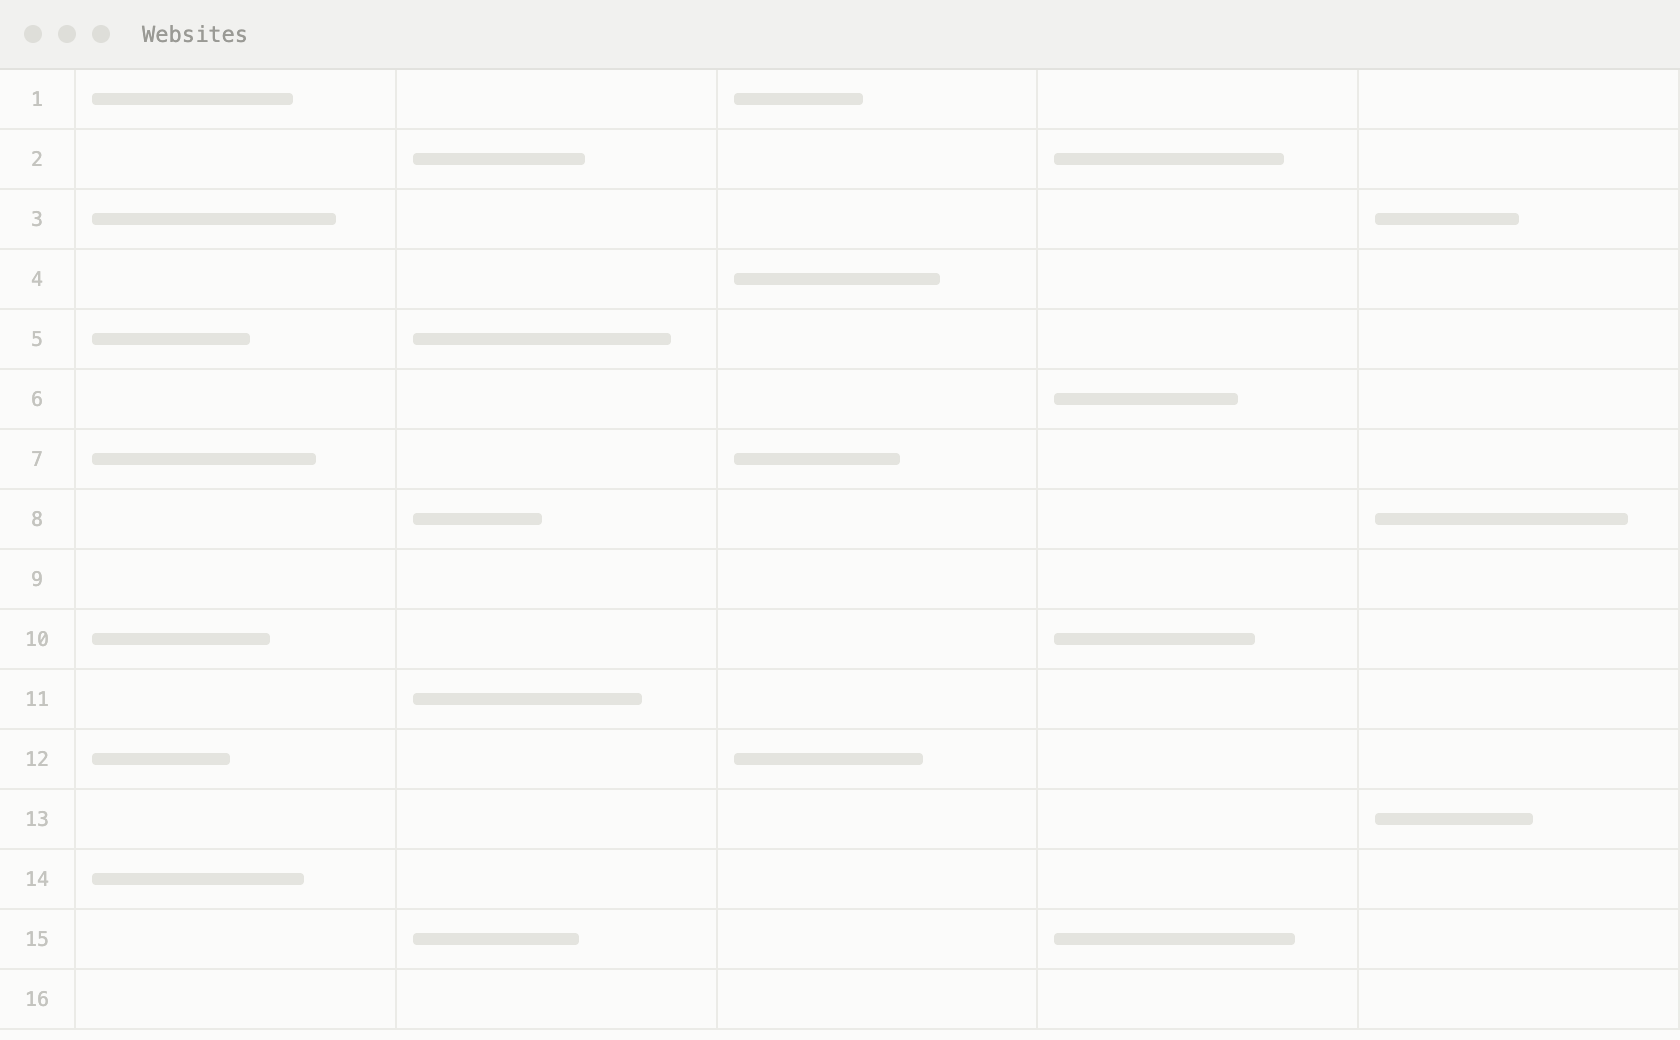
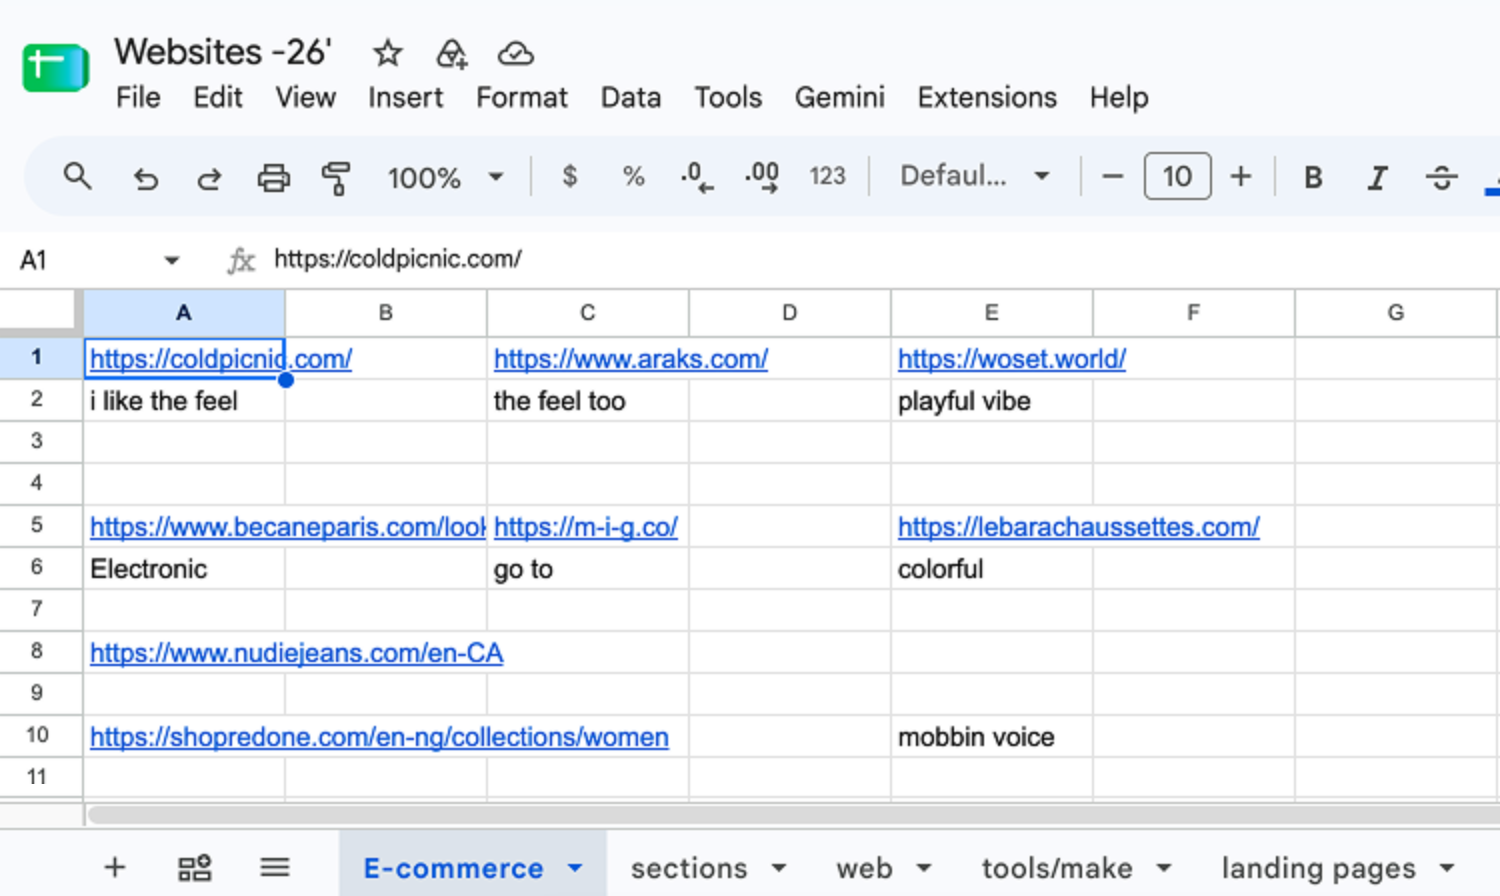
Make every destination reachable on a phone
Request a site, About and Changelog were all hidden below sm, so a
phone header held a logo and two toggles and reached nothing else.

The header keeps the one action; the two destinations move to the end
of the navigation — under the categories in the sidebar, and on the
filter bar below xl, where the category list lives at that size. The
foot of the grid was the obvious home and the wrong one: the grid
loads as you scroll, so it has no foot to arrive at.

The panel drops the Mobile tab below xl. Preview carries the mobile
rendering there instead, out of its drawn phone frame so it fills the
sheet — a phone drawn inside a phone is a picture of your own hand.

diff --git a/components/gallery.tsx b/components/gallery.tsx
@@ -88,6 +88,13 @@ const ICON_BUTTON =
   'text-ink-3 hover:text-ink hover:bg-muted active:scale-[0.98] transition-[background-color,border-color,color,transform] duration-[var(--dur-2)] ease-[var(--ease-sig)] ' +
   "after:absolute after:left-1/2 after:top-1/2 after:h-11 after:w-[42px] after:-translate-x-1/2 after:-translate-y-1/2 after:content-['']"
 
+// Where the navigation ends. About and Changelog are destinations rather than
+// filters, so they sit after the list on desktop and after the grid on a
+// phone — the same idea in the same relative place, at both sizes.
+const SECONDARY_LINK =
+  'relative flex items-center text-meta text-ink-3 hover:text-ink transition-colors ' +
+  "after:absolute after:inset-x-0 after:top-1/2 after:h-11 after:-translate-y-1/2 after:content-['']"
+
 // Counts share a fixed column and sit right-aligned, so the digits line up down
 // the list instead of ending wherever each label happens to leave them.
 function sidebarCount(isActive: boolean): string {
@@ -405,8 +412,9 @@ export function Gallery({ initialDesigns, initialPagination, initialCategories }
   // has the same room either way and the count does not shift under you.
   const cardColumns = 'grid-cols-1 sm:grid-cols-2 2xl:grid-cols-3'
 
-  const detailPanel = isPanelOpen && (
+  const renderDetailPanel = (variant: 'desktop' | 'mobile') => isPanelOpen && (
     <SiteDetailPanel
+      variant={variant}
       sourceId={Number(selectedId)}
       metadata={selectedDesign ? {
         tags: selectedDesign.tags,
@@ -476,27 +484,12 @@ export function Gallery({ initialDesigns, initialPagination, initialCategories }
                 something the person just asked for. */}
             <button
               onClick={() => setRequestOpen(true)}
-              className="relative hidden sm:flex items-center gap-1 text-meta text-ink-3 hover:text-ink transition-colors mr-1 after:absolute after:inset-x-0 after:top-1/2 after:h-11 after:-translate-y-1/2 after:content-['']"
+              aria-label="Request a site"
+              className="relative flex items-center gap-1 text-meta text-ink-3 hover:text-ink transition-colors mr-1 sm:mr-1 max-sm:w-9 max-sm:h-9 max-sm:justify-center max-sm:rounded-[10px] max-sm:bg-muted/60 max-sm:hover:bg-muted max-sm:active:scale-[0.98] after:absolute after:inset-x-0 after:top-1/2 after:h-11 after:-translate-y-1/2 after:content-['']"
             >
-              <Plus className="w-3 h-3" weight="bold" />
-              Request a site
+              <Plus className="w-3 h-3 max-sm:w-4 max-sm:h-4" weight="bold" />
+              <span className="max-sm:sr-only">Request a site</span>
             </button>
-
-            <Link
-              href="/about"
-              className="relative hidden sm:flex items-center text-meta text-ink-3 hover:text-ink transition-colors mr-1 after:absolute after:inset-x-0 after:top-1/2 after:h-11 after:-translate-y-1/2 after:content-['']"
-            >
-              About
-            </Link>
-
-            <Link
-              href="/changelog"
-              // 17px tall as drawn. The overlay carries the touch target so the
-              // link keeps its weight in the header.
-              className="relative hidden sm:flex items-center text-meta text-ink-3 hover:text-ink transition-colors mr-1 after:absolute after:inset-x-0 after:top-1/2 after:h-11 after:-translate-y-1/2 after:content-['']"
-            >
-              Changelog
-            </Link>
 
             <button
               onClick={() => {
@@ -590,6 +583,13 @@ export function Gallery({ initialDesigns, initialPagination, initialCategories }
             {/* Active tags live in the filter bar above the grid, alongside
                 categories and search, rather than in a second list here. */}
           </nav>
+
+          {/* mt-auto so this sits at the foot of the column on a short list
+              and is scrolled to on a long one, rather than floating mid-way. */}
+          <div className="mt-auto px-4 py-4 border-t border-edge flex flex-col gap-2.5">
+            <Link href="/about" className={SECONDARY_LINK}>About</Link>
+            <Link href="/changelog" className={SECONDARY_LINK}>Changelog</Link>
+          </div>
         </aside>
 
         {/* Gallery */}
@@ -653,6 +653,16 @@ export function Gallery({ initialDesigns, initialPagination, initialCategories }
                     {label}
                   </button>
                 ))}
+              </div>
+
+              {/* Below xl this bar *is* the category list, so "after the
+                  navigation" lands here. It shares the sort row rather than
+                  taking one of its own — a fourth row of sticky chrome on a
+                  phone is a lot to spend on two links. */}
+              <div className="ml-auto flex items-center gap-2 shrink-0 pl-2">
+                <Link href="/about" className={SECONDARY_LINK}>About</Link>
+                <span aria-hidden="true" className="text-meta text-ink-4">·</span>
+                <Link href="/changelog" className={SECONDARY_LINK}>Changelog</Link>
               </div>
             </div>
           </div>
@@ -772,6 +782,7 @@ export function Gallery({ initialDesigns, initialPagination, initialCategories }
               {isRefetching ? 'Loading sites' : `${pagination.total} sites`}
             </p>
           </div>
+
         </main>
 
         <RequestSiteDialog
@@ -794,7 +805,7 @@ export function Gallery({ initialDesigns, initialPagination, initialCategories }
                 transition={{ duration: 0.15 }}
                 className="flex flex-col h-full"
               >
-                {detailPanel}
+                {renderDetailPanel('desktop')}
               </motion.div>
             ) : (
               <motion.div
@@ -863,7 +874,7 @@ export function Gallery({ initialDesigns, initialPagination, initialCategories }
               </div>
 
               <div className="flex flex-col flex-1 min-h-0" style={{ touchAction: 'pan-y', paddingBottom: 'var(--safe-bottom)' }}>
-                {detailPanel}
+                {renderDetailPanel('mobile')}
               </div>
             </motion.div>
           </>

diff --git a/components/origin-peek.tsx b/components/origin-peek.tsx
@@ -22,6 +22,7 @@ interface OriginPeekProps {
 export function OriginPeek({ children, src, alt, caption }: OriginPeekProps) {
   const [open, setOpen] = useState(false)
   const [below, setBelow] = useState(false)
+  const [shift, setShift] = useState(0)
   const wrapRef = useRef<HTMLSpanElement>(null)
 
   // Opening upward is the better read — the picture sits above the sentence
@@ -30,7 +31,20 @@ export function OriginPeek({ children, src, alt, caption }: OriginPeekProps) {
   // way. Measured at open, because the answer changes with the scroll.
   function place() {
     const rect = wrapRef.current?.getBoundingClientRect()
-    if (rect) setBelow(rect.top < 320)
+    if (!rect) return
+    setBelow(rect.top < 320)
+
+    // Centred on the word is right until the word is near an edge, and on a
+    // phone it usually is — a 351px panel centred on a word 90px from the
+    // left runs off the screen. Nudge it back inside and let it sit
+    // off-centre, which nobody notices; a panel half out of the window is
+    // the thing people notice.
+    const width = Math.min(600, window.innerWidth * 0.9)
+    const margin = 12
+    const left = rect.left + rect.width / 2 - width / 2
+    const overLeft = margin - left
+    const overRight = left + width - (window.innerWidth - margin)
+    setShift(overLeft > 0 ? overLeft : overRight > 0 ? -overRight : 0)
   }
 
   // A tap opens it; the next tap anywhere else puts it away again.
@@ -73,20 +87,25 @@ export function OriginPeek({ children, src, alt, caption }: OriginPeekProps) {
       <span
         aria-hidden={!open}
         className={[
-          'pointer-events-none absolute z-50 left-1/2 -translate-x-1/2',
+          'pointer-events-none absolute z-50 left-1/2',
           below ? 'top-[calc(100%+10px)]' : 'bottom-[calc(100%+10px)]',
-          'w-[min(420px,78vw)] rounded-[6px] border border-edge-strong bg-card overflow-hidden',
+          'w-[min(600px,90vw)] rounded-[6px] border border-edge-strong bg-card overflow-hidden',
           'shadow-[0_12px_32px_-8px_rgba(0,0,0,0.28)]',
           'transition-[opacity,transform] duration-[var(--dur-2)] ease-[var(--ease-sig)]',
           'motion-reduce:transition-none',
-          open ? 'opacity-100 translate-y-0' : `opacity-0 ${below ? '-translate-y-1' : 'translate-y-1'}`,
+          open ? 'opacity-100' : 'opacity-0',
         ].join(' ')}
+        style={{
+          transform: `translateX(calc(-50% + ${shift}px)) translateY(${
+            open ? 0 : below ? -4 : 4
+          }px)`,
+        }}
       >
         <Image
           src={src}
           alt={alt}
-          width={840}
-          height={520}
+          width={1500}
+          height={896}
           className="w-full h-auto block"
         />
         {caption && (

diff --git a/data/changelog.ts b/data/changelog.ts
@@ -85,6 +85,17 @@ export function releaseAuthors(release: ChangelogRelease): Author[] {
 const changelog: ChangelogRelease[] = [
   {
     date: '2026-08-31',
+    title: 'Reachable From Anywhere',
+    description: 'Three of the four things in the header vanished below 640px, which meant a phone could reach the gallery and nothing else. Fixing that was mostly a question of deciding what the header is for.',
+    items: [
+      { type: 'fixed',    author: 'damilare', text: 'Request a site, About and Changelog were all hidden below the small breakpoint, so on a phone the header held a logo and two toggles and there was no way to reach anything else at all' },
+      { type: 'improved', author: 'damilare', text: 'The header keeps one thing now — Request a site, beside sound and theme, shedding its label on a phone the way those two already do. It is the only action of the three; the other two are destinations and were competing with it for the same corner' },
+      { type: 'improved', author: 'damilare', text: 'About and Changelog moved to the end of the navigation: under the categories in the sidebar on desktop, and on the filter bar below it, which is where the category list lives at that size. They share the sort row rather than taking one of their own — a fourth row of sticky chrome on a phone is a lot to spend on two links. The foot of the grid was the obvious place and the wrong one, because the grid loads as you scroll and therefore has no foot to arrive at' },
+      { type: 'improved', author: 'damilare', text: 'The detail panel drops the Mobile tab below xl. Offering a mobile view to someone already holding a phone is offering them the view they are in — Preview carries the mobile rendering there instead, out of its drawn phone frame so it fills the sheet. A phone drawn inside a phone is a picture of the thing in your hand' },
+    ],
+  },
+  {
+    date: '2026-08-31',
     title: 'The Page, Zoomed Out',
     description: 'Thirty releases is more than anyone will scroll through to reach February. The fix is not a menu of month names but a smaller copy of the page itself, kept in the margin.',
     items: [

diff --git a/components/preview-tab.tsx b/components/preview-tab.tsx
@@ -16,6 +16,9 @@ interface PreviewTabProps {
   mobileScreenshotUrl?: string | null
   extractionError?: string | null
   displayMode?: Extract<PreviewMode, 'live' | 'mobile'>
+  /** Drop the drawn phone frame — on an actual phone it is a picture of the
+   *  device you are holding, and it costs the preview most of its width. */
+  fill?: boolean
 }
 
 export function PreviewTab({
@@ -24,6 +27,7 @@ export function PreviewTab({
   mobileScreenshotUrl,
   extractionError,
   displayMode = 'live',
+  fill = false,
 }: PreviewTabProps) {
   const [loaded, setLoaded] = useState(false)
   const [proxyFailed, setProxyFailed] = useState(false)
@@ -113,7 +117,7 @@ export function PreviewTab({
   if (activeScreenshotUrl) {
     return (
       <div className="relative flex-1 min-h-0 overflow-auto bg-muted/35">
-        <div className={`min-h-full p-4 ${mode === 'mobile' ? 'flex justify-center' : ''}`}>
+        <div className={`min-h-full ${fill ? 'p-0' : 'p-4'} ${mode === 'mobile' && !fill ? 'flex justify-center' : ''}`}>
           <img
             src={activeScreenshotUrl}
             alt={`${mode === 'mobile' ? 'Mobile' : 'Desktop'} screenshot of ${domain}`}
@@ -129,8 +133,8 @@ export function PreviewTab({
   if (mode === 'mobile' && !proxyFailed) {
     return (
       <div className="relative flex-1 min-h-0 overflow-hidden bg-muted/35">
-        <div className="absolute inset-4 flex justify-center">
-          <div className="relative h-full w-full max-w-[390px] overflow-hidden rounded-[4px] border border-edge bg-background shadow-sm">
+        <div className={fill ? 'absolute inset-0' : 'absolute inset-4 flex justify-center'}>
+          <div className={`relative h-full w-full overflow-hidden bg-background ${fill ? '' : 'max-w-[390px] rounded-[4px] border border-edge shadow-sm'}`}>
             {!loaded && (
               <div className="absolute inset-0 z-10 flex flex-col items-center justify-center gap-3 pointer-events-none">
                 <span className="text-meta text-ink-3">{domain}</span>

diff --git a/components/site-detail-panel.tsx b/components/site-detail-panel.tsx
@@ -33,12 +33,15 @@ interface SiteMetadata {
 }
 
 interface SiteDetailPanelProps {
+  /** Which breakpoint this instance is mounted at. */
+  variant?: 'desktop' | 'mobile'
   sourceId: number
   metadata?: SiteMetadata
   onClose?: () => void
 }
 
-export function SiteDetailPanel({ sourceId, metadata, onClose }: SiteDetailPanelProps) {
+export function SiteDetailPanel({ variant = 'desktop', sourceId, metadata, onClose }: SiteDetailPanelProps) {
+  const isMobile = variant === 'mobile'
   const [activeTab, setActiveTab] = useState<PanelTab>('preview')
   const [data, setData] = useState<DetailData | null>(null)
   const [loading, setLoading] = useState(true)
@@ -117,7 +120,7 @@ export function SiteDetailPanel({ sourceId, metadata, onClose }: SiteDetailPanel
 
       {/* Tab bar */}
       <div className="flex-shrink-0">
-        <PanelTabs active={activeTab} onChange={setActiveTab} />
+        <PanelTabs active={activeTab} onChange={setActiveTab} variant={variant} />
       </div>
 
       {/* Content */}
@@ -152,11 +155,12 @@ export function SiteDetailPanel({ sourceId, metadata, onClose }: SiteDetailPanel
                     screenshotUrl={data.screenshot_url}
                     mobileScreenshotUrl={data.mobile_screenshot_url}
                     extractionError={data.extraction_error}
-                    displayMode="live"
+                    displayMode={isMobile ? 'mobile' : 'live'}
+                    fill={isMobile}
                   />
                 </motion.div>
               )}
-              {activeTab === 'mobile' && (
+              {!isMobile && activeTab === 'mobile' && (
                 <motion.div key="mobile" className="flex flex-col flex-1 min-h-0"
                   initial={{ opacity: 0, y: 4 }} animate={{ opacity: 1, y: 0 }}
                   transition={{ duration: DUR.move, ease: EASE }}

diff --git a/components/panel-tabs.tsx b/components/panel-tabs.tsx
@@ -11,17 +11,29 @@ export type PanelTab = 'preview' | 'mobile' | 'colors' | 'type'
 interface PanelTabsProps {
   active: PanelTab
   onChange: (tab: PanelTab) => void
+  /** On a phone there is no second device to offer, so Mobile is not a tab. */
+  variant?: 'desktop' | 'mobile'
 }
 
-const TABS: { key: PanelTab; label: string; Icon: React.ComponentType<{ className?: string; weight?: 'regular' | 'fill' }> }[] = [
+type TabDef = { key: PanelTab; label: string; Icon: React.ComponentType<{ className?: string; weight?: 'regular' | 'fill' }> }
+
+const ALL_TABS: TabDef[] = [
   { key: 'preview', label: 'Preview', Icon: Monitor },
   { key: 'mobile',  label: 'Mobile',  Icon: DeviceMobile },
   { key: 'colors', label: 'Colors', Icon: Palette },
   { key: 'type',   label: 'Type',    Icon: TextT },
 ]
 
-export function PanelTabs({ active, onChange }: PanelTabsProps) {
+// Offering Mobile to someone already holding a phone is offering them the
+// view they are in. Preview carries the mobile rendering there instead, and
+// the tab keeps the name that describes what it is rather than which device.
+const MOBILE_TABS: TabDef[] = ALL_TABS.filter(t => t.key !== 'mobile').map(t =>
+  t.key === 'preview' ? { ...t, Icon: DeviceMobile } : t,
+)
+
+export function PanelTabs({ active, onChange, variant = 'desktop' }: PanelTabsProps) {
   const { playTabChange } = useSoundsContext()
+  const TABS = variant === 'mobile' ? MOBILE_TABS : ALL_TABS
   const activeIndex = TABS.findIndex(t => t.key === active)
 
   // Arrow-key tab changes are repeated far more than clicks, and animating a

diff --git a/app/about/page.tsx b/app/about/page.tsx
@@ -68,8 +68,8 @@ export default async function AboutPage() {
             It started as a{' '}
             <OriginPeek
               src="/origin-spreadsheet.png"
-              alt="The original spreadsheet: columns of site addresses and notes, with tabs for motion, portfolios, hex and travel"
-              caption="The original sheet"
+              alt="The original spreadsheet: a column of site addresses beside notes reading 'i like the feel', 'playful vibe', 'colorful', with tabs for e-commerce, sections, landing pages and UX"
+              caption="Websites — the original sheet"
             >
               spreadsheet
             </OriginPeek>
